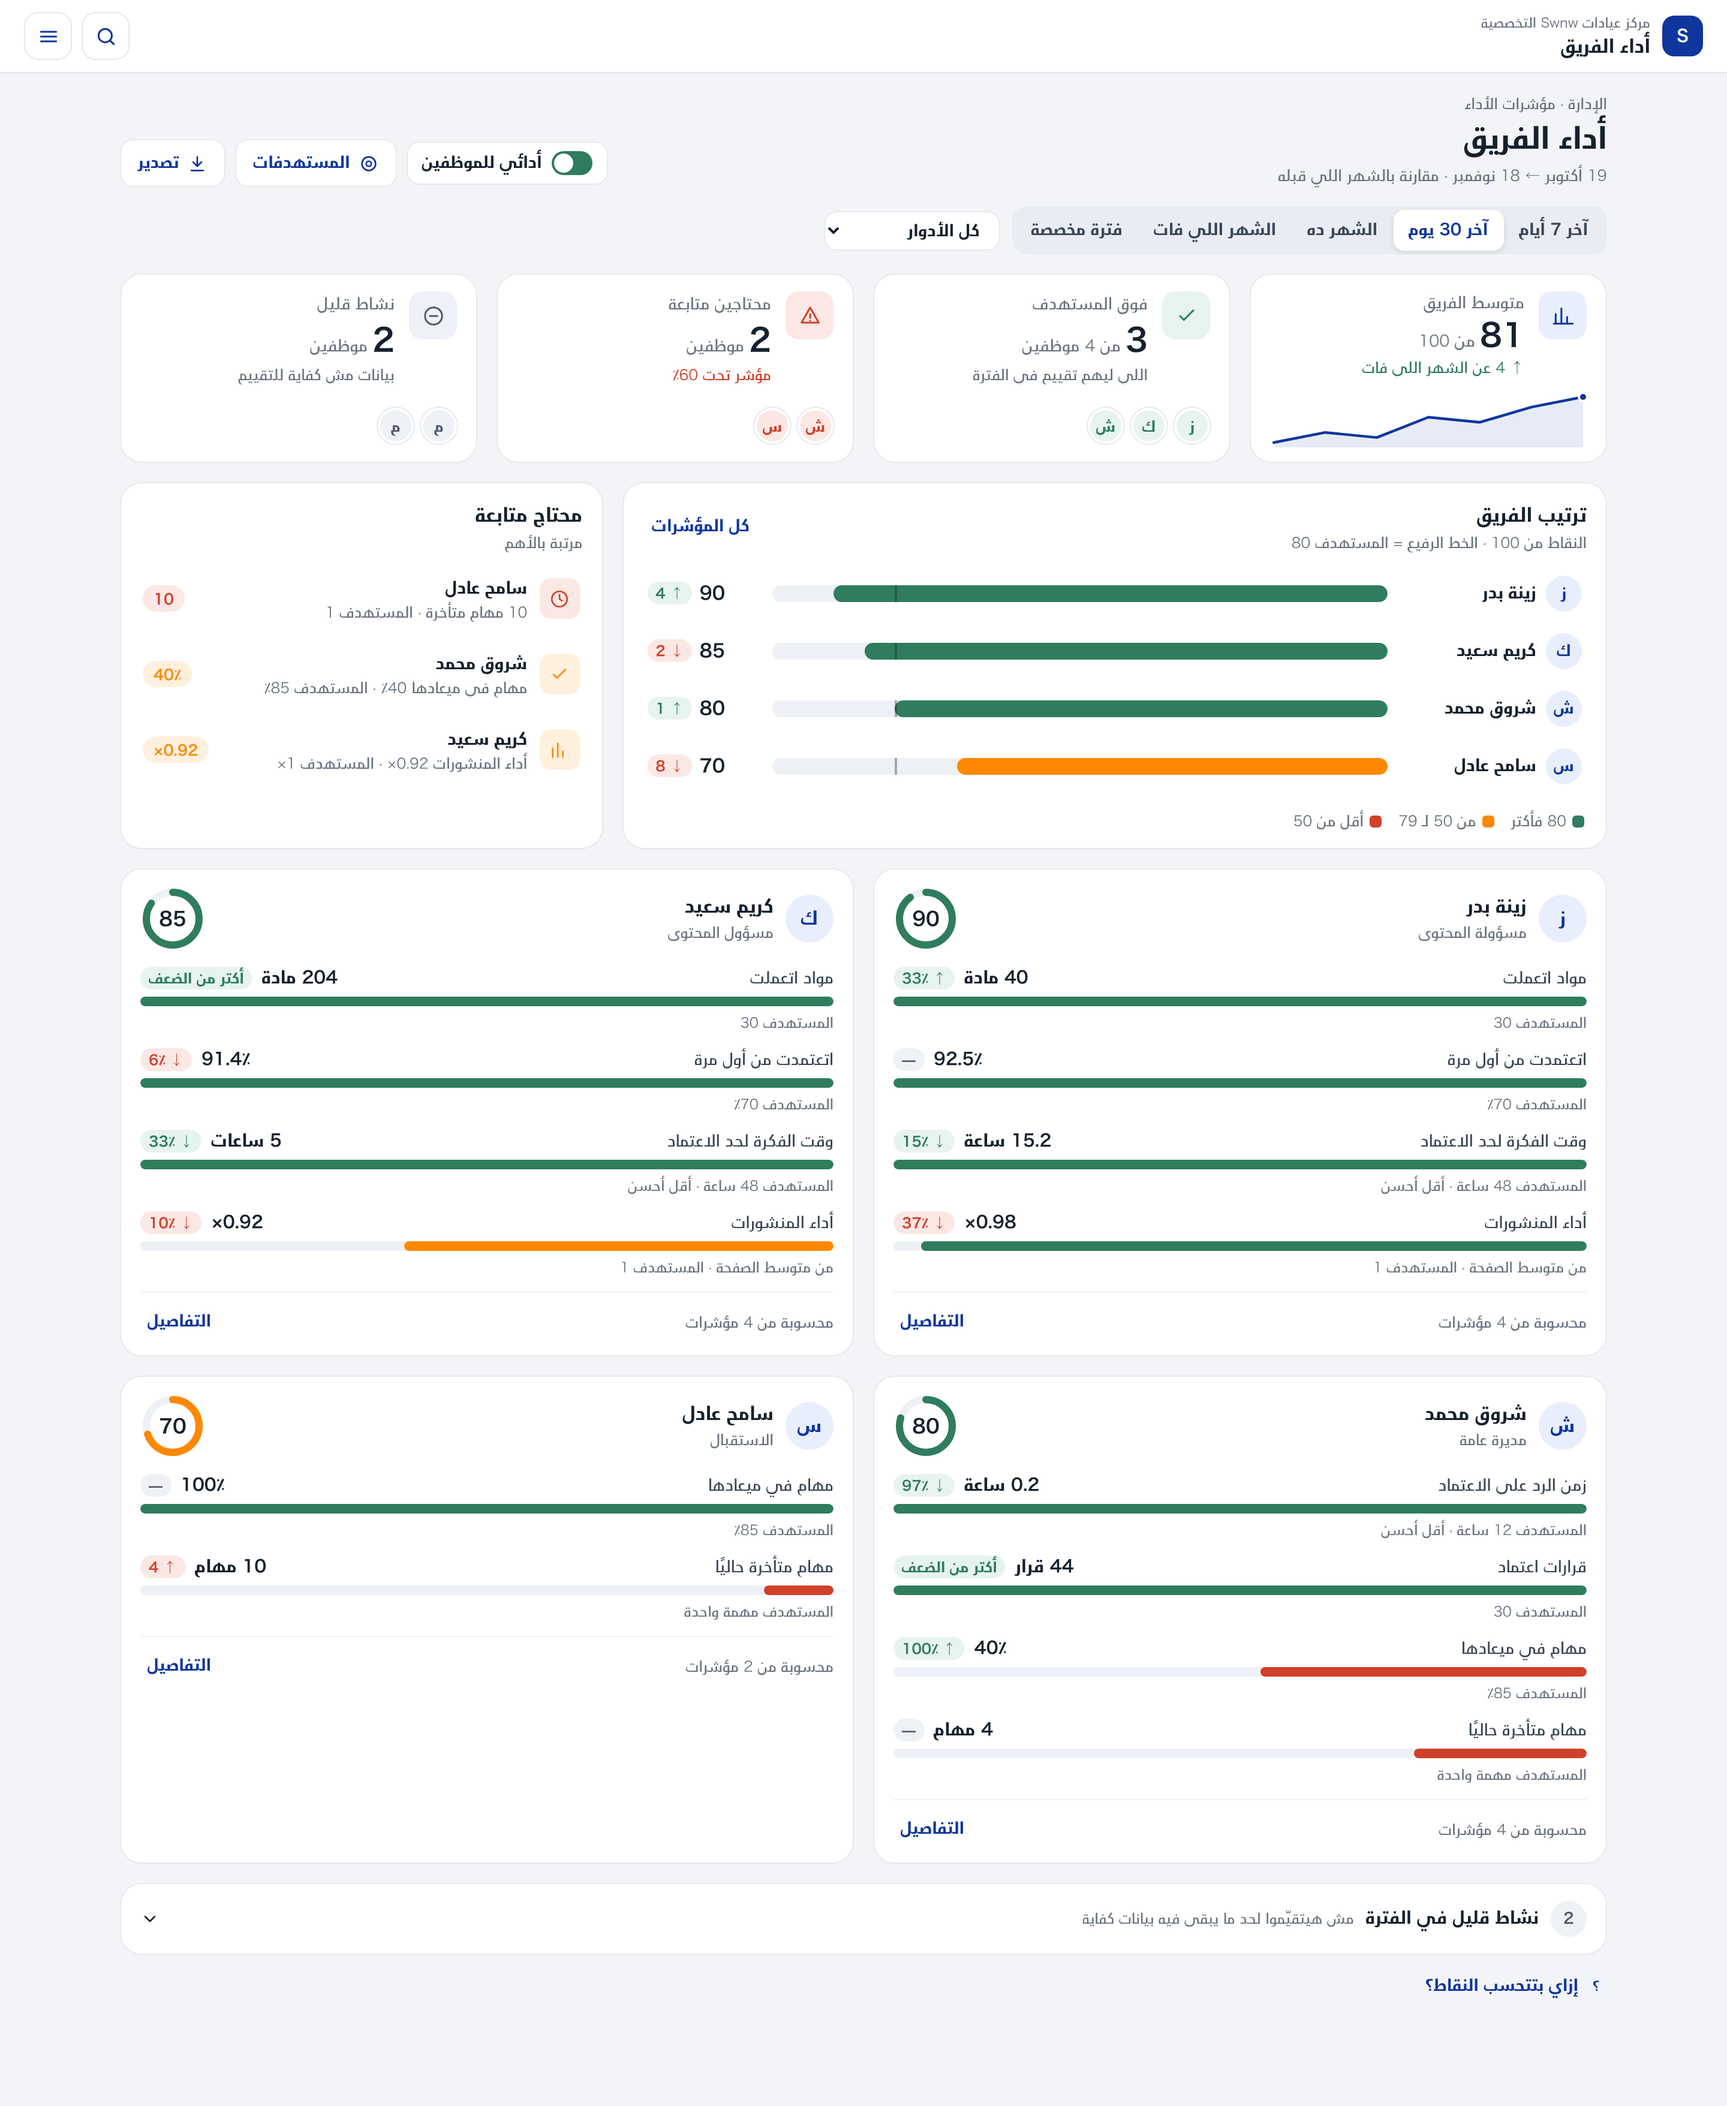
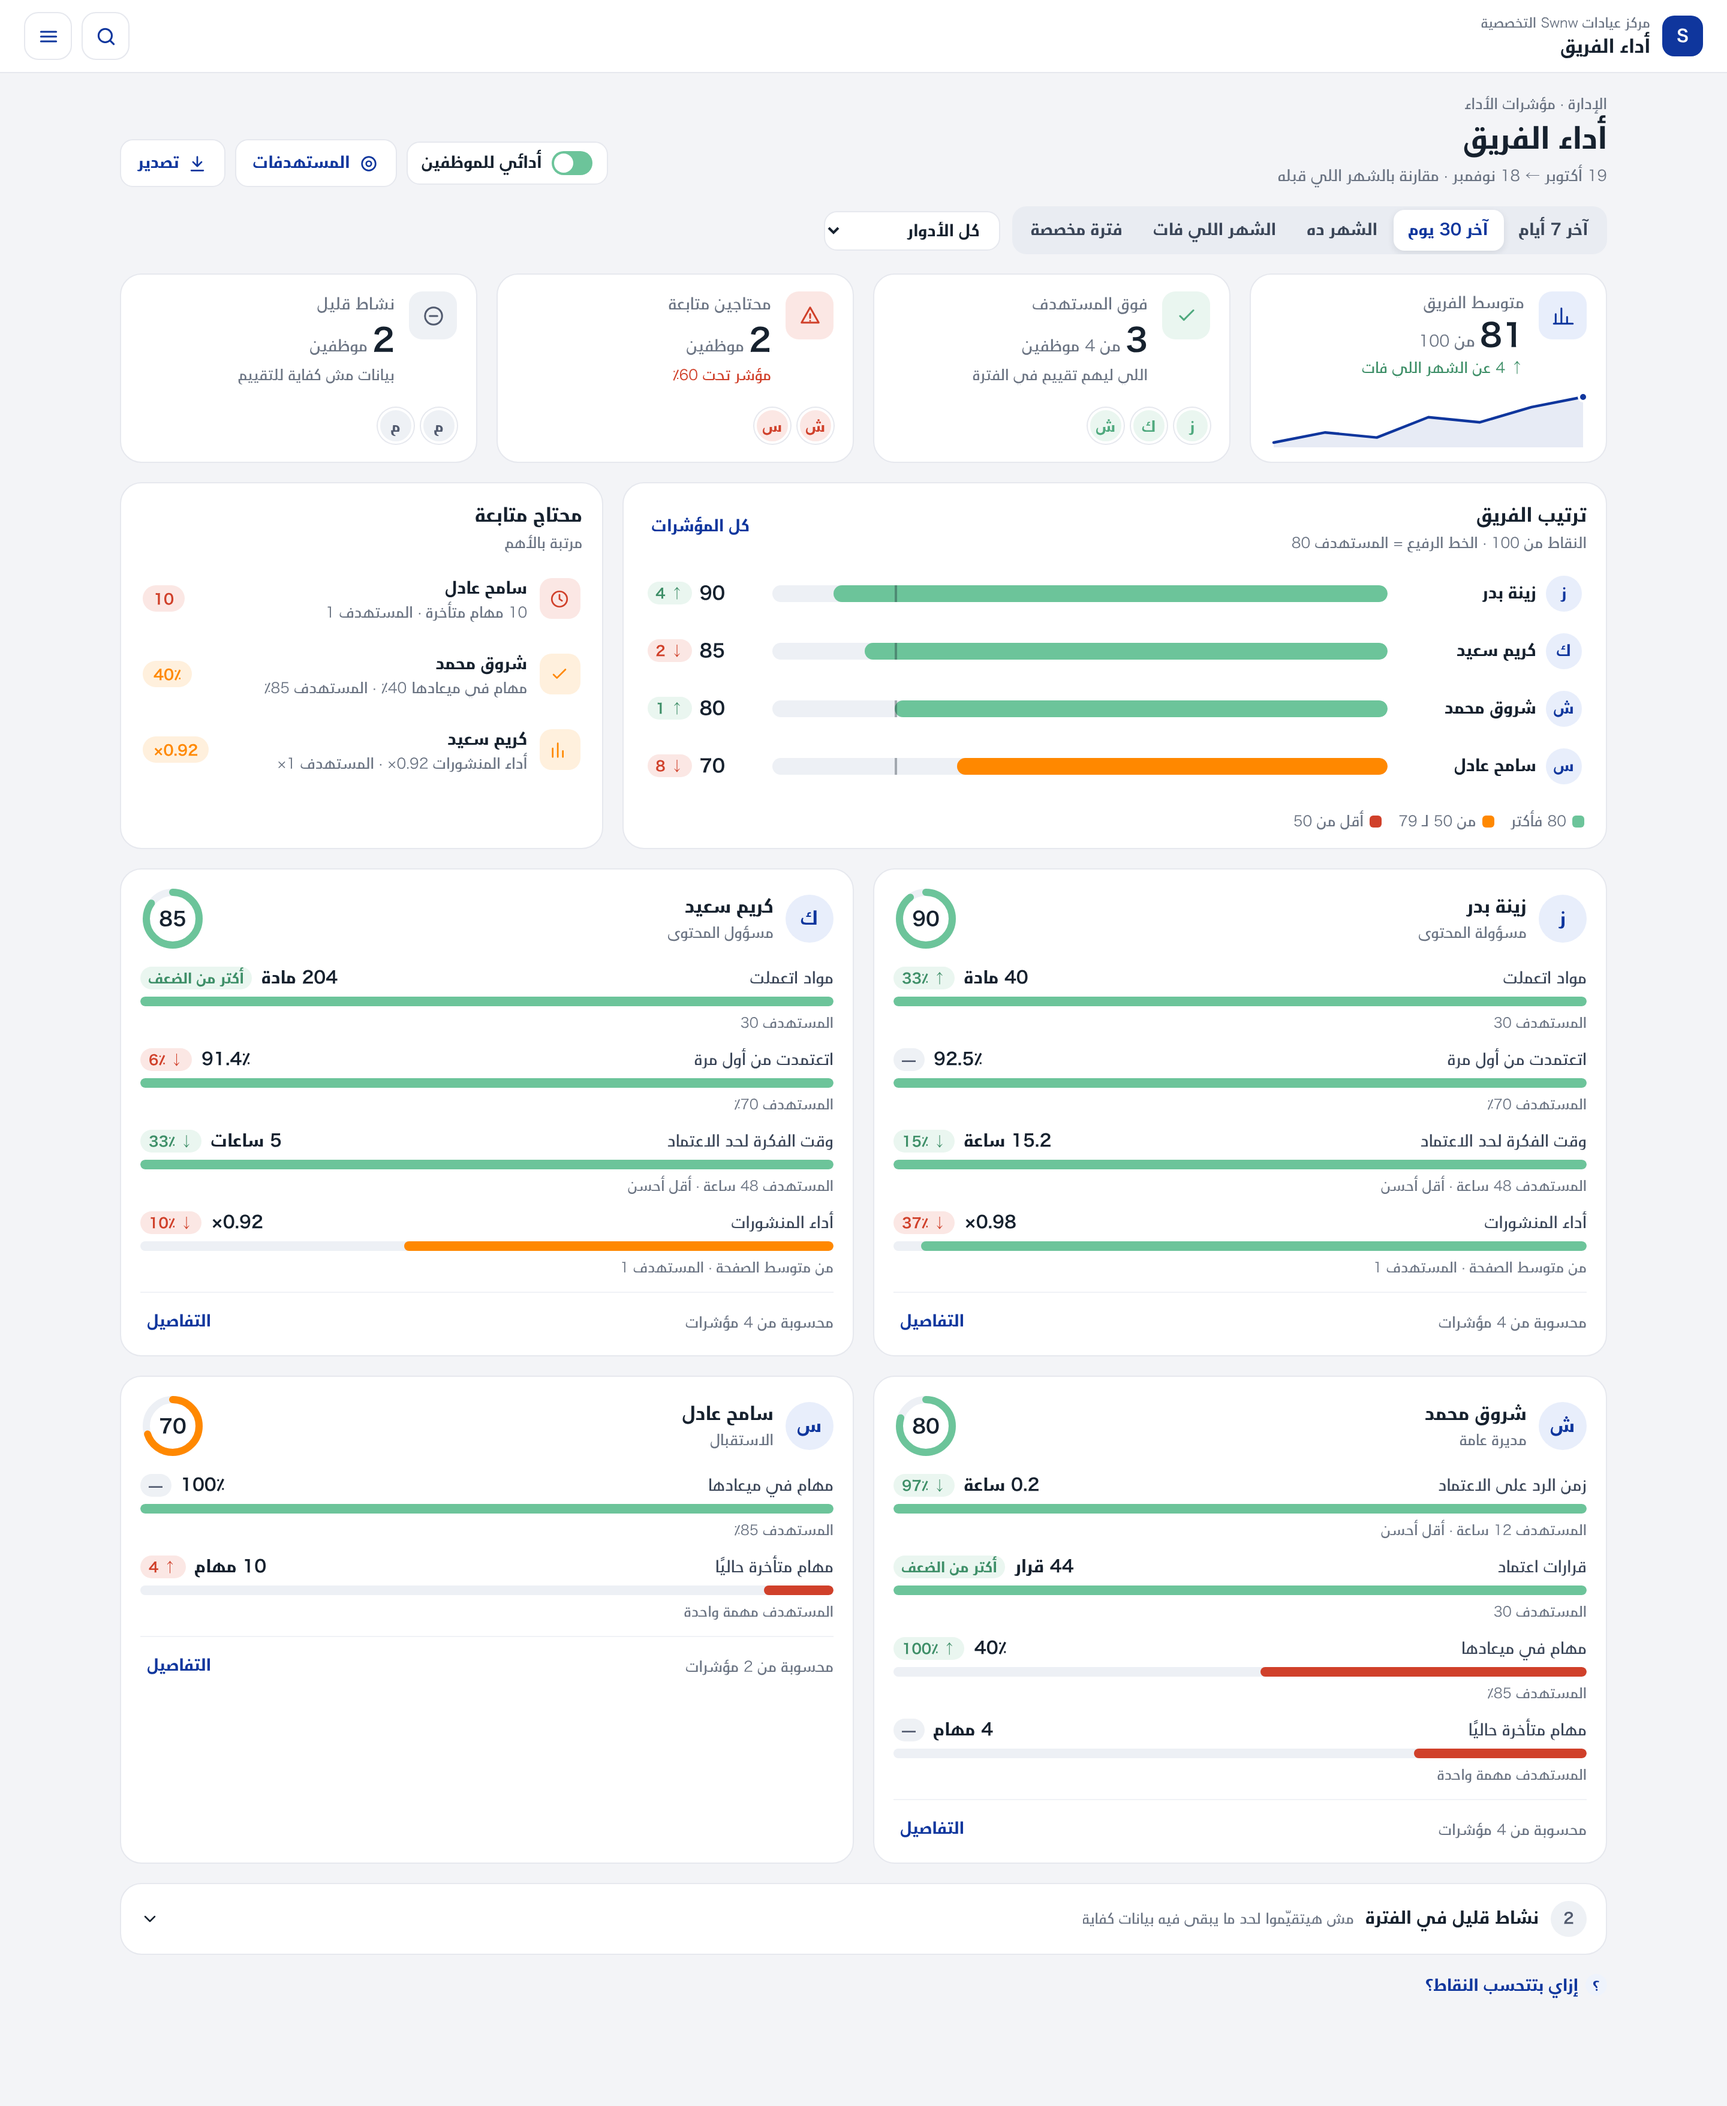
Team performance mockup v2: calmer green (owner)
Claude-Session: https://claude.ai/code/session_01UqVZHZihapbfrPRQkyZErA

diff --git a/docs/ui-references/mockups/team-performance.html b/docs/ui-references/mockups/team-performance.html
@@ -12,7 +12,7 @@
 @font-face{font-family:"BigVesta Arabic";src:url("../../../assets/fonts/BigVesta-Bold.woff2") format("woff2");font-weight:700}
 @font-face{font-family:"Hiragino Kaku";src:url("../../../assets/fonts/Hiragino-W3.woff2") format("woff2");font-weight:300}
 @font-face{font-family:"Hiragino Kaku";src:url("../../../assets/fonts/Hiragino-W6.woff2") format("woff2");font-weight:600}
-:root{--gap:16px;--blue:#0F369D;--ink:#16212E;--pos:#2F7D5C;--neg:#D0402A;--warn:#FF8800;--bg:#F3F4F7;--line:#E6E8EE;--mute:#6B7483;--ease:cubic-bezier(.22,1,.36,1);--spring:cubic-bezier(.34,1.56,.64,1)}
+:root{--gap:16px;--blue:#0F369D;--ink:#16212E;--pos:#3E8F68;--neg:#D0402A;--warn:#FF8800;--bg:#F3F4F7;--line:#E6E8EE;--mute:#6B7483;--ease:cubic-bezier(.22,1,.36,1);--spring:cubic-bezier(.34,1.56,.64,1)}
 *{box-sizing:border-box}
 body{margin:0;background:var(--bg);color:var(--ink);font-family:"Hiragino Kaku","BigVesta Arabic",system-ui,Tahoma,sans-serif;font-size:14px;font-variant-numeric:tabular-nums}
 svg{fill:none;stroke:currentColor;stroke-width:1.9;stroke-linecap:round;stroke-linejoin:round}
@@ -30,7 +30,7 @@ button,select{font:inherit;color:inherit}
 .btn:hover{background:#F5F8FE;border-color:#B9C8EA}.btn:active{transform:scale(.97)}.btn svg{width:17px;height:17px}
 .sw{display:inline-flex;align-items:center;gap:8px;white-space:nowrap;font-size:13px;font-weight:600;color:var(--ink);cursor:pointer;background:#fff;border:1px solid var(--line);border-radius:11px;padding:7px 12px}
 .sw i{width:34px;height:20px;border-radius:999px;background:#CBD3E1;position:relative;transition:background .2s}.sw i::after{content:"";position:absolute;top:2px;right:2px;width:16px;height:16px;border-radius:50%;background:#fff;transition:transform .25s var(--spring)}
-.sw[aria-pressed="true"] i{background:var(--pos)}.sw[aria-pressed="true"] i::after{transform:translateX(-14px)}
+.sw[aria-pressed="true"] i{background:#6CC49A}.sw[aria-pressed="true"] i::after{transform:translateX(-14px)}
 .tools{display:flex;gap:10px;align-items:center;flex-wrap:wrap}
 .seg{position:relative;display:inline-flex;background:#E9ECF2;border-radius:12px;padding:3px;overflow-x:auto;max-width:100%;scrollbar-width:none}
 .seg button{position:relative;z-index:1;border:0;background:transparent;padding:7px 13px;border-radius:9px;font-size:13px;font-weight:600;color:#3B4658;cursor:pointer;white-space:nowrap}
@@ -70,7 +70,7 @@ button,select{font:inherit;color:inherit}
 .track .tgt{position:absolute;top:-3px;bottom:-3px;width:2px;background:#16212E;opacity:.35;left:20%}
 .score{display:flex;align-items:center;gap:6px;justify-content:flex-end;white-space:nowrap}.score b{font-size:15px}
 .chip{font-style:normal;font-size:11.5px;font-weight:700;border-radius:999px;padding:1px 7px;white-space:nowrap}
-.chip.up{background:#E7F3EE;color:var(--pos)}.chip.dn{background:#FBE7E4;color:var(--neg)}.chip.eq{background:#EEF1F5;color:#525B6F}
+.chip.up{background:#EAF6F0;color:#3E8F68}.chip.dn{background:#FBE7E4;color:var(--neg)}.chip.eq{background:#EEF1F5;color:#525B6F}
 .lg{display:flex;gap:14px;flex-wrap:wrap;padding:0 18px 14px;font-size:12px;color:var(--mute)}.lg span{white-space:nowrap}.lg i{display:inline-block;width:10px;height:10px;border-radius:3px;margin-inline-end:5px;vertical-align:-1px}
 /* needs list */
 .need{list-style:none;margin:0;padding:4px 10px 12px;display:flex;flex-direction:column;gap:6px}
@@ -126,14 +126,14 @@ details.low summary .chev{margin-inline-start:auto;width:16px;height:16px;transi
   <select class="sel" aria-label="الدور"><option>كل الأدوار</option><option>مسؤول المحتوى</option><option>الاستقبال</option><option>مدير عام</option></select></div>
  <div class="kpis">
   <div class="k fx-press" style="--c:#0F369D;--t:#E8EEFB"><span class="ic"><svg viewBox="0 0 24 24"><path d="M4 20V10M10 20V4M16 20v-7M22 20H2"/></svg></span><small>متوسط الفريق</small><b data-count="81">0<u>من 100</u></b><i class="up">↑ 4 عن الشهر اللي فات</i><svg class="sp" data-spark="72,74,73,77,76,79,81"></svg></div>
-  <div class="k fx-press" style="--c:#2F7D5C;--t:#E7F3EE"><span class="ic"><svg viewBox="0 0 24 24"><path d="M5 12l4 4L19 6"/></svg></span><small>فوق المستهدف</small><b data-count="3">0<u>من 4 موظفين</u></b><i>اللي ليهم تقييم في الفترة</i><div class="faces"><span style="--c:#2F7D5C;--t:#E7F3EE">ز</span><span style="--c:#2F7D5C;--t:#E7F3EE">ك</span><span style="--c:#2F7D5C;--t:#E7F3EE">ش</span></div></div>
+  <div class="k fx-press" style="--c:#4FA97E;--t:#EAF6F0"><span class="ic"><svg viewBox="0 0 24 24"><path d="M5 12l4 4L19 6"/></svg></span><small>فوق المستهدف</small><b data-count="3">0<u>من 4 موظفين</u></b><i>اللي ليهم تقييم في الفترة</i><div class="faces"><span style="--c:#4FA97E;--t:#EAF6F0">ز</span><span style="--c:#4FA97E;--t:#EAF6F0">ك</span><span style="--c:#4FA97E;--t:#EAF6F0">ش</span></div></div>
   <div class="k fx-press" style="--c:#D0402A;--t:#FBE7E4"><span class="ic"><svg viewBox="0 0 24 24"><path d="M12 3l9 16H3z"/><path d="M12 10v4M12 17h.01"/></svg></span><small>محتاجين متابعة</small><b data-count="2">0<u>موظفين</u></b><i class="dn">مؤشر تحت 60٪</i><div class="faces"><span style="--c:#D0402A;--t:#FBE7E4">ش</span><span style="--c:#D0402A;--t:#FBE7E4">س</span></div></div>
   <div class="k fx-press" style="--c:#525B6F;--t:#EEF1F5"><span class="ic"><svg viewBox="0 0 24 24"><circle cx="12" cy="12" r="9"/><path d="M8 12h8"/></svg></span><small>نشاط قليل</small><b data-count="2">0<u>موظفين</u></b><i>بيانات مش كفاية للتقييم</i><div class="faces"><span style="--c:#525B6F;--t:#EEF1F5">م</span><span style="--c:#525B6F;--t:#EEF1F5">م</span></div></div>
  </div>
  <div class="grid">
   <article class="card span2"><div class="ch"><div><h2>ترتيب الفريق</h2><small>النقاط من 100 · الخط الرفيع = المستهدف 80</small></div><button class="lnk">كل المؤشرات</button></div>
    <ul class="rank" data-rank></ul>
-   <div class="lg"><span><i style="background:#2F7D5C"></i>80 فأكتر</span><span><i style="background:#FF8800"></i>من 50 لـ 79</span><span><i style="background:#D0402A"></i>أقل من 50</span></div></article>
+   <div class="lg"><span><i style="background:#6CC49A"></i>80 فأكتر</span><span><i style="background:#FF8800"></i>من 50 لـ 79</span><span><i style="background:#D0402A"></i>أقل من 50</span></div></article>
   <article class="card"><div class="ch"><div><h2>محتاج متابعة</h2><small>مرتبة بالأهم</small></div></div>
    <ul class="need">
     <li style="--c:#D0402A;--t:#FBE7E4"><span class="ic"><svg viewBox="0 0 24 24"><circle cx="12" cy="12" r="9"/><path d="M12 7v5l3 2"/></svg></span><div><b>سامح عادل</b><small>10 مهام متأخرة · المستهدف 1</small></div><em>10</em></li>
@@ -150,7 +150,7 @@ details.low summary .chev{margin-inline-start:auto;width:16px;height:16px;transi
 <script>
 var M=window.SSMPDMotion,red=matchMedia('(prefers-reduced-motion: reduce)').matches;
 function el(t,a,p){var e=document.createElementNS('http://www.w3.org/2000/svg',t);for(var k in a)e.setAttribute(k,a[k]);p&&p.appendChild(e);return e;}
-function tone(s){return s>=80?'#2F7D5C':s>=50?'#FF8800':'#D0402A';}
+function tone(s){return s>=80?'#6CC49A':s>=50?'#FF8800':'#D0402A';}
 var P=[['زينة بدر','مسؤولة المحتوى',90,4,[['مواد اتعملت','40 مادة',100,'↑ 33٪','up','المستهدف 30'],['اتعتمدت من أول مرة','92.5٪',100,'—','eq','المستهدف 70٪'],['وقت الفكرة لحد الاعتماد','15.2 ساعة',100,'↓ 15٪','up','المستهدف 48 ساعة · أقل أحسن'],['أداء المنشورات','0.98×',96,'↓ 37٪','dn','من متوسط الصفحة · المستهدف 1']]],
 ['كريم سعيد','مسؤول المحتوى',85,-2,[['مواد اتعملت','204 مادة',100,'أكتر من الضعف','up','المستهدف 30'],['اتعتمدت من أول مرة','91.4٪',100,'↓ 6٪','dn','المستهدف 70٪'],['وقت الفكرة لحد الاعتماد','5 ساعات',100,'↓ 33٪','up','المستهدف 48 ساعة · أقل أحسن'],['أداء المنشورات','0.92×',62,'↓ 10٪','dn','من متوسط الصفحة · المستهدف 1']]],
 ['شروق محمد','مديرة عامة',80,1,[['زمن الرد على الاعتماد','0.2 ساعة',100,'↓ 97٪','up','المستهدف 12 ساعة · أقل أحسن'],['قرارات اعتماد','44 قرار',100,'أكتر من الضعف','up','المستهدف 30'],['مهام في ميعادها','40٪',47,'↑ 100٪','up','المستهدف 85٪'],['مهام متأخرة حاليًا','4 مهام',25,'—','eq','المستهدف مهمة واحدة']]],
